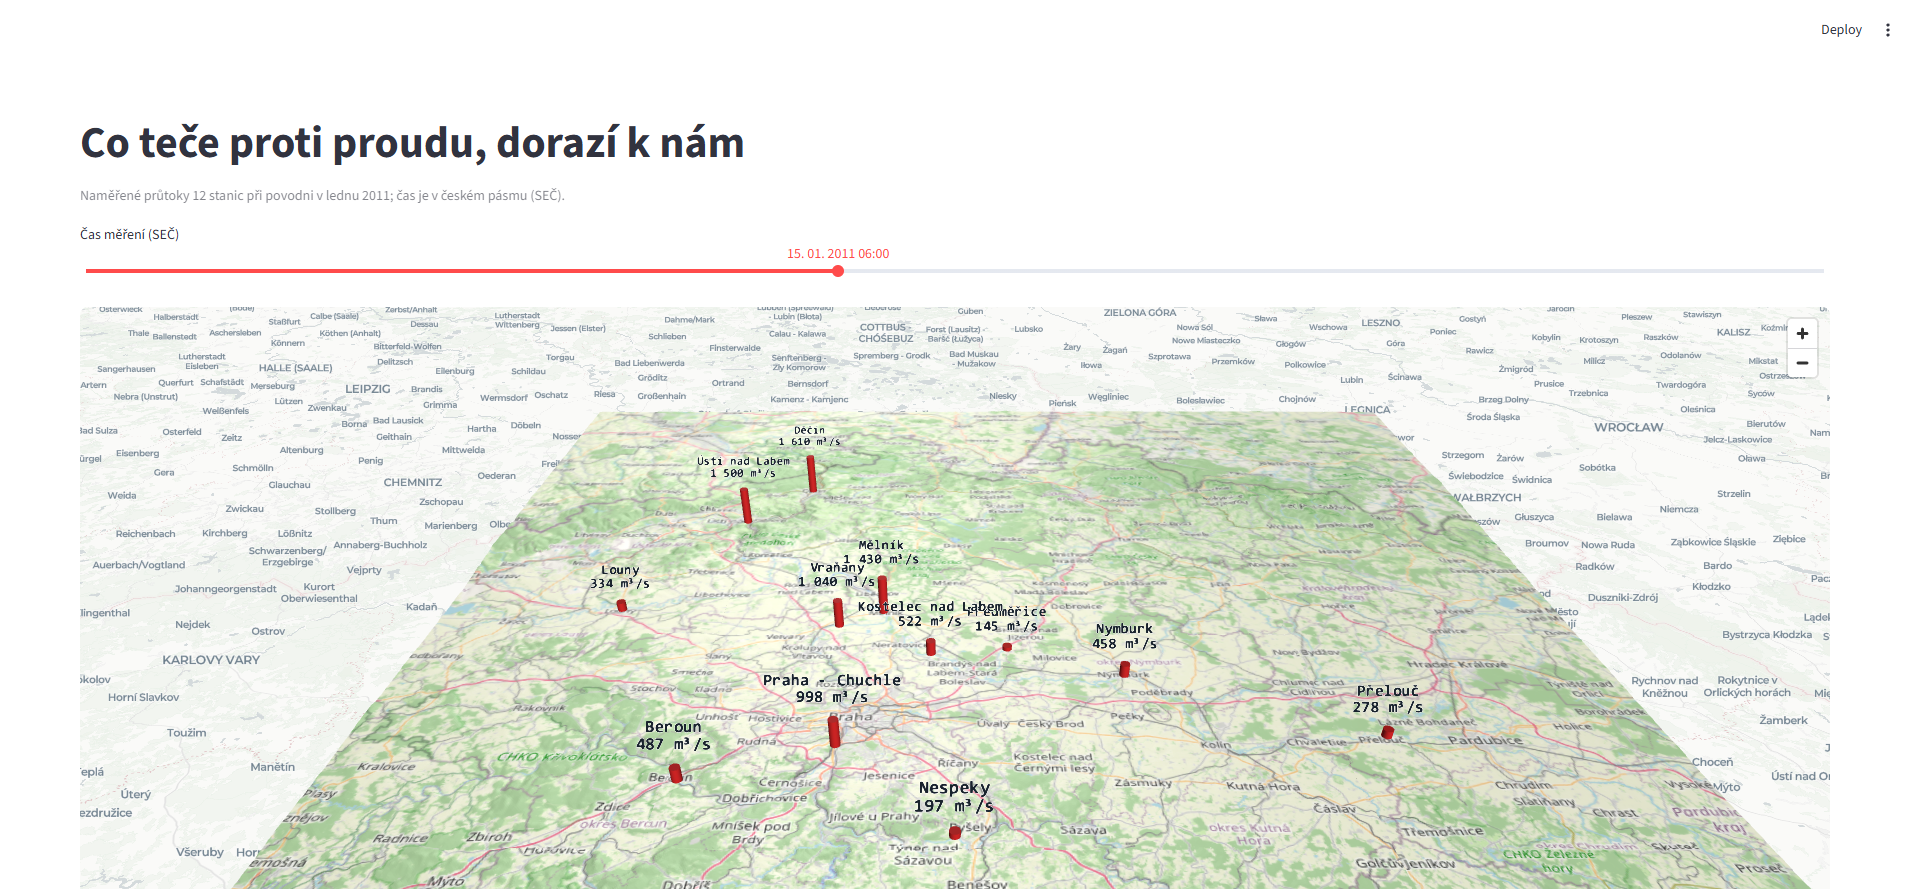
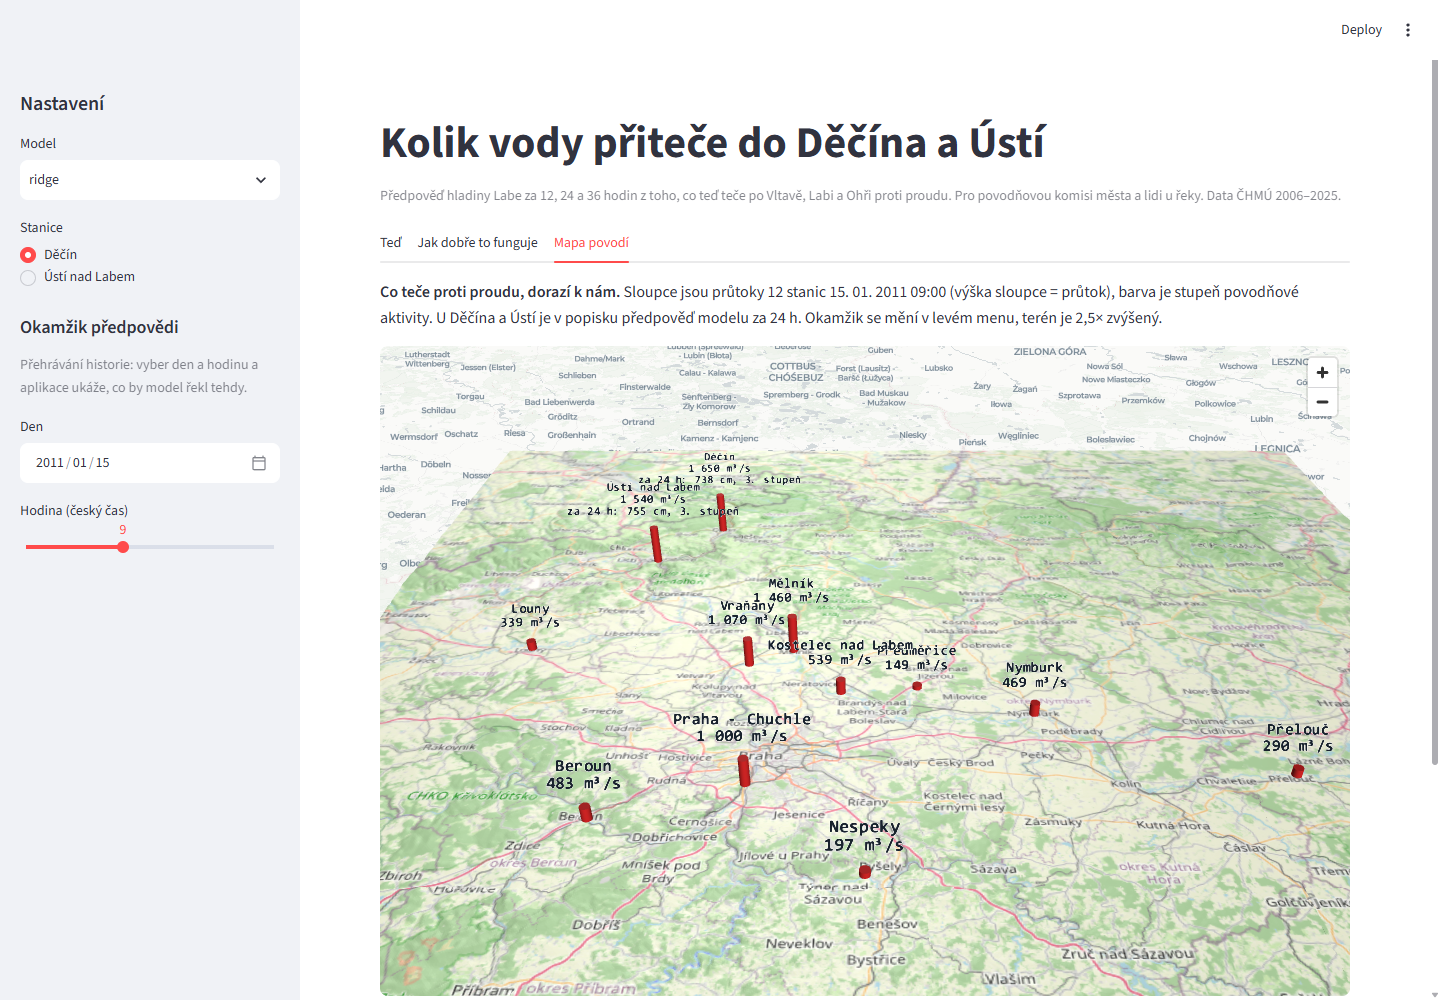
Honza: mapa ukazuje předpověď modelu u Děčína a Ústí a umí přehrát povodeň 1/2011

diff --git a/app/mapa.py b/app/mapa.py
@@ -46,7 +46,8 @@ def _cislo(hodnota):
     return "chybí měření" if pd.isna(hodnota) else f"{hodnota:,.0f}".replace(",", " ")
 
 
-def _stanice(cas):
+def _stanice(cas, predpovedi=None):
+    """predpovedi: {klic: (horizont, hladina_cm)} z modelu, přidá se k popisku Děčína a Ústí."""
     metadata, percentily = _podklady()
     radek = nacti().loc[_cas_utc(cas)]
     body = []
@@ -55,6 +56,7 @@ def _stanice(cas):
         q = radek[f"{klic}_Q"]
         barva = SEDA
         tooltip = f"{stanice.stanice} · {stanice.tok}\nPrůtok: {_cislo(q)}"
+        predpoved = ""
         if pd.notna(q):
             tooltip += " m³/s"
         if klic in SPA:
@@ -66,6 +68,11 @@ def _stanice(cas):
             barva = SEDA if stupen is None else BARVY[stupen]
             tooltip += f"\nHladina: {_cislo(h)}" + (" cm" if pd.notna(h) else "")
             tooltip += f"\n{stav}"
+            if predpovedi and klic in predpovedi:
+                hor, cm = predpovedi[klic]
+                s = sum(cm >= mez for mez in SPA[klic])
+                predpoved = f"\nza {hor} h: {cm:.0f} cm" + (f", {s}. stupeň" if s else "")
+                tooltip += f"\nPředpověď modelu{predpoved}"
         else:
             p95, p99 = percentily[f"{klic}_Q"]
             if pd.notna(q):
@@ -84,15 +91,15 @@ def _stanice(cas):
             "vrchol": [stanice.lon, stanice.lat, z + vyska * MERITKO_PRUTOKU],
             "prutok": vyska,
             "barva": barva,
-            "popisek": f"{stanice.stanice}\n{_cislo(q)}" + (" m³/s" if pd.notna(q) else ""),
+            "popisek": f"{stanice.stanice}\n{_cislo(q)}" + (" m³/s" if pd.notna(q) else "") + predpoved,
             "tooltip": tooltip,
         })
     return body
 
 
-def deck(cas: pd.Timestamp) -> pdk.Deck:
-    """Mapa měření v dané hodině; čas bez pásma se bere jako český čas."""
-    body = _stanice(cas)
+def deck(cas: pd.Timestamp, predpovedi=None) -> pdk.Deck:
+    """Mapa měření v dané hodině; čas bez pásma se bere jako český čas. predpovedi viz _stanice."""
+    body = _stanice(cas, predpovedi)
     # TerrainLayer nemá elevationScale, násobíme celý dekodér včetně offsetu.
     dekoder = {"rScaler": 256, "gScaler": 1, "bScaler": 1 / 256, "offset": -32768}
     teren = pdk.Layer(

diff --git a/app/app.py b/app/app.py
@@ -5,6 +5,7 @@ Spuštění z kořene repozitáře:
     Mac:      .venv/bin/python -m streamlit run app/app.py
 """
 import json
+import time as cas_modul
 from datetime import date, datetime, time
 
 import pandas as pd
@@ -169,11 +170,29 @@ with tab_kvalita:
                    "průměr přes 4 povodně. Varování počítáme od chvíle, kdy model poprvé předpověděl překročení "
                    "2. stupně, do chvíle, kdy hladina práh opravdu překročila.")
 
+def predpovedi_pro_mapu(t):
+    """Předpověď modelu za 24 h pro Děčín i Ústí v čase t (UTC), pro popisky na mapě."""
+    out = {}
+    for c in KDE:
+        Xc = vstupy_c(c)
+        if t in Xc.index:
+            out[c] = (24, float(model_c(nazev, c, 24).predict(Xc.loc[[t]])[0]))
+    return out
+
+
 with tab_mapa:
     st.markdown(f"**Co teče proti proudu, dorazí k nám.** Sloupce jsou průtoky 12 stanic "
                 f"{cesky(cas):%d. %m. %Y %H:%M} (výška sloupce = průtok), barva je stupeň povodňové aktivity. "
-                "Okamžik se mění v levém menu, terén je 2,5× zvýšený.")
-    st.pydeck_chart(mapa_deck(cas), height=650)
+                "U Děčína a Ústí je v popisku předpověď modelu za 24 h. Okamžik se mění v levém menu, terén je "
+                "2,5× zvýšený.")
+    misto = st.empty()
+    if st.button("Přehrát povodeň 1/2011 (8. až 24. 1., po 6 hodinách, asi 40 s)"):
+        for t in pd.date_range("2011-01-08", "2011-01-24 18:00", freq="6h", tz=TZ):
+            t = t.tz_convert("UTC")
+            misto.pydeck_chart(mapa_deck(t, predpovedi_pro_mapu(t)), height=650)
+            cas_modul.sleep(0.6)
+    else:
+        misto.pydeck_chart(mapa_deck(cas, predpovedi_pro_mapu(cas)), height=650)
     st.caption("Děčín a Ústí: barva podle hladiny a stupňů povodňové aktivity. Ostatní stanice: zelená pod 95. "
                "percentilem průtoku z let 2006–2018, žlutá do 99., červená nad ním; nejde o oficiální stupně. "
                "Kolečkem přiblížíte, tažením posunete, Shift a tažením natočíte. Podklad © OpenStreetMap, výšky "
